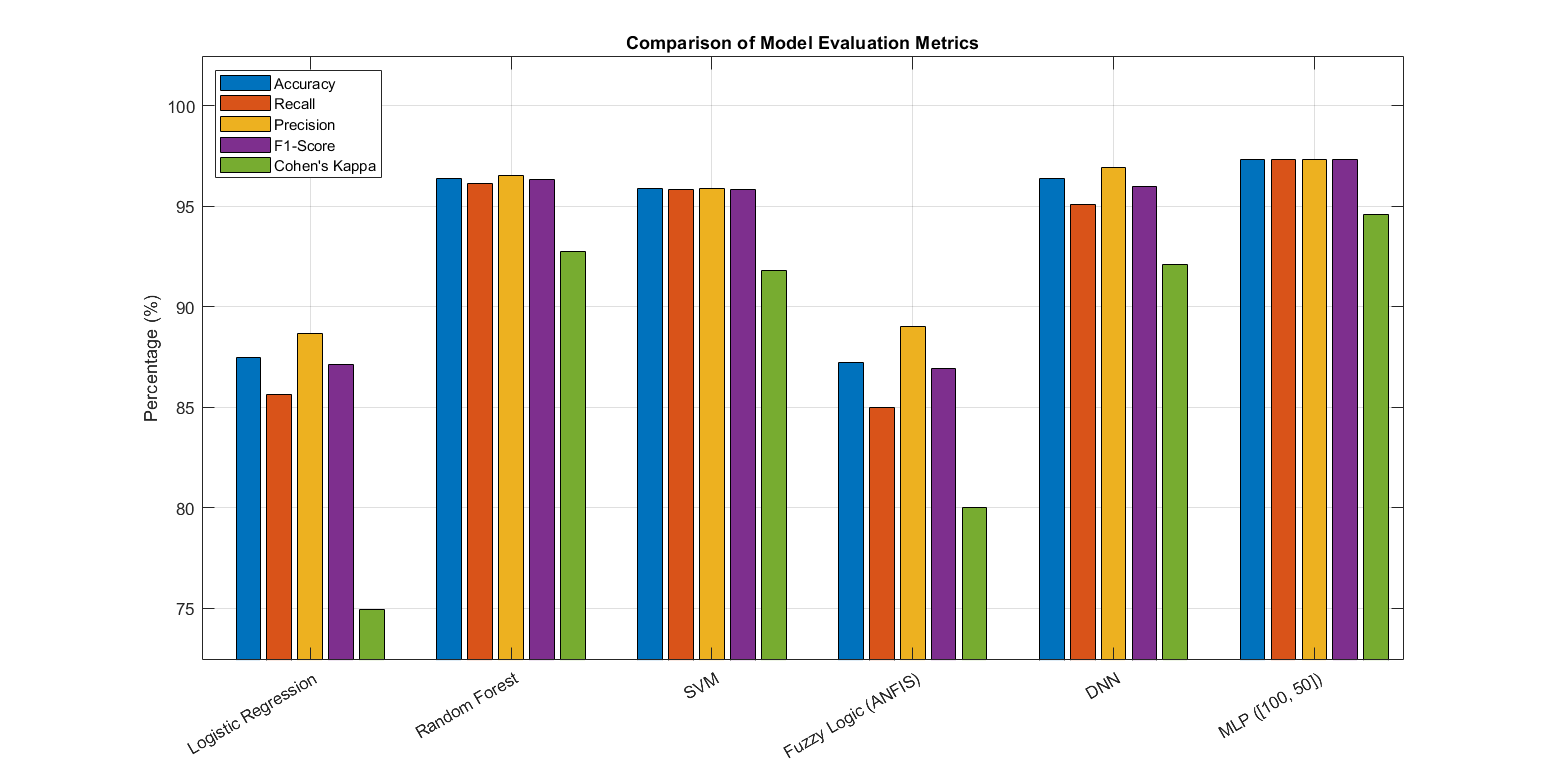
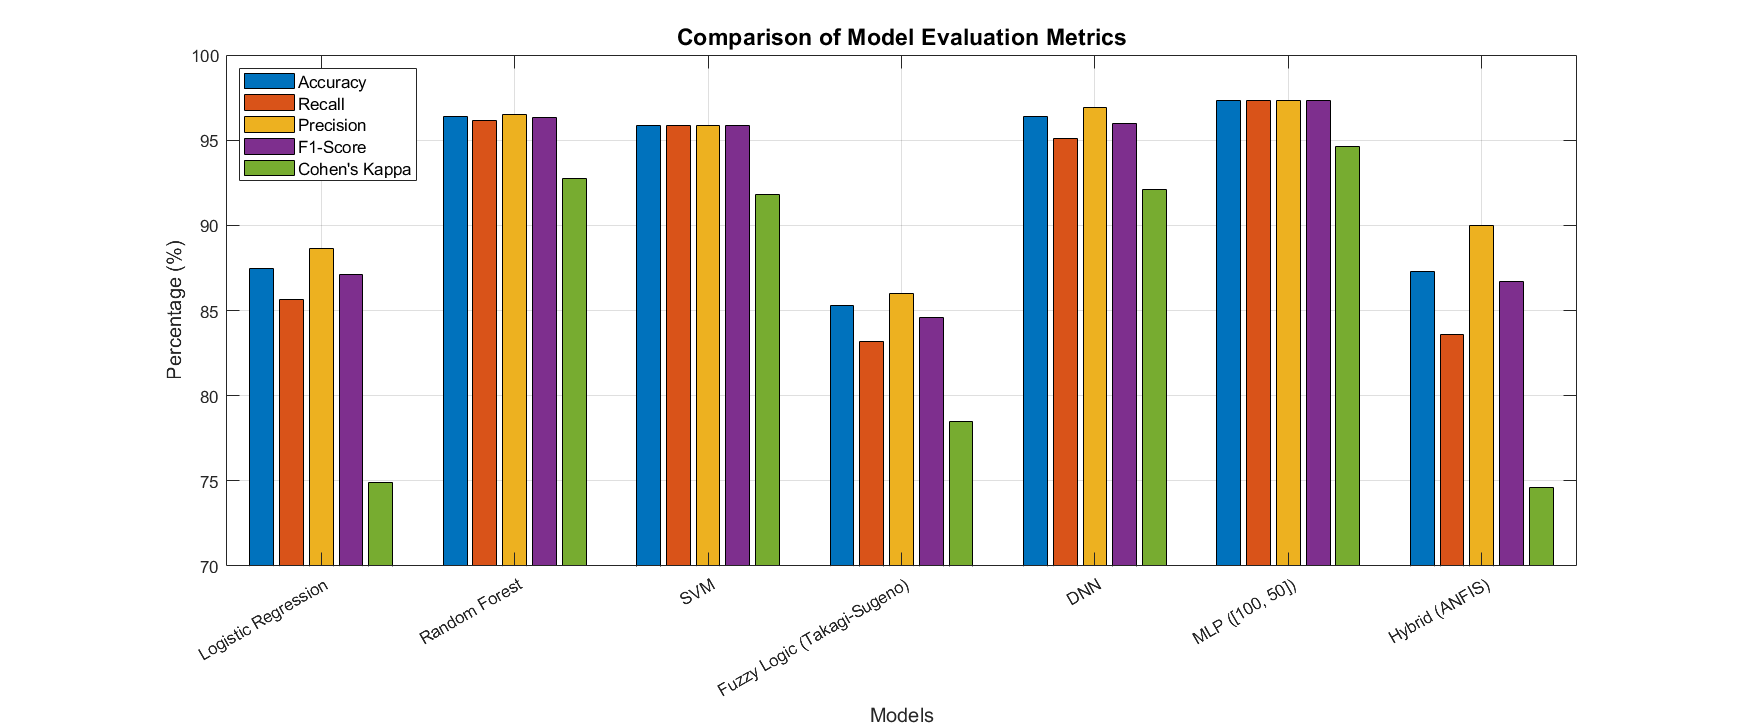
Code Results

diff --git a/Hybrid.m b/Hybrid.m
@@ -1,5 +1,5 @@
-clc
-clear all
+clc;
+clear all;
 
 %% Load data and create train-test sets
 Train = readtable('dataTrain.csv');
@@ -15,7 +15,7 @@ Y_test = table2array(Test(:, end));      % 'STATUS' column as label
 convert_to_binary = @(Y_pred) double(Y_pred >= 0.5);  % Ensure output is numeric
 
 %% Function to calculate metrics
-function [accuracy, recall, precision, f1] = calc_metrics(Y_true, Y_pred)
+function [accuracy, recall, precision, f1, kappa] = calc_metrics(Y_true, Y_pred)
     Y_true = double(Y_true);
     Y_pred = double(Y_pred);
     confusion = confusionmat(Y_true, Y_pred);
@@ -23,39 +23,68 @@ function [accuracy, recall, precision, f1] = calc_metrics(Y_true, Y_pred)
     TN = confusion(1,1);
     FP = confusion(1,2);
     FN = confusion(2,1);
-    
+
     accuracy = (TP + TN) / (TP + TN + FP + FN);
     recall = TP / (TP + FN);
     precision = TP / (TP + FP);
     f1 = 2 * (precision * recall) / (precision + recall);
+
+    % Calculate Kappa Score
+    total = sum(confusion(:));
+    po = accuracy;
+    pe = ((sum(confusion(1,:)) * sum(confusion(:,1))) + (sum(confusion(2,:)) * sum(confusion(:,2)))) / total^2;
+    kappa = (po - pe) / (1 - pe);
 end
 
-%% Grid Search for Best Number of Clusters
+%% Cross-validation setup
+cv = cvpartition(size(X_train, 1), 'KFold', 5); % 5-Fold Cross-validation
+
 best_num_clusters = 0;
 best_accuracy = 0;
 best_model = [];
 best_metrics = [];
 
 for num_clusters = 2:10  % Search from 2 to 10 clusters
-    opt = genfisOptions('FCMClustering', 'FISType', 'sugeno');
-    opt.NumClusters = num_clusters;
-    ts_model = genfis(X_train, Y_train, opt);
-    
-    % Evaluate on the test set
-    Y_pred = evalfis(ts_model, X_test);
-    Y_pred_binary = convert_to_binary(Y_pred);
-    
-    % Calculate metrics
-    [accuracy, recall, precision, f1] = calc_metrics(Y_test, Y_pred_binary);
-    
-    fprintf('Num Clusters: %d, Accuracy: %4.3f, Recall: %4.3f, Precision: %4.3f, F1-Score: %4.3f\n', num_clusters, accuracy, recall, precision, f1);
-    
+    fold_accuracies = [];
+    fold_metrics = [];
+
+    for fold = 1:cv.NumTestSets
+        % Get train-test split for the current fold
+        train_idx = cv.training(fold);
+        val_idx = cv.test(fold);
+
+        X_cv_train = X_train(train_idx, :);
+        Y_cv_train = Y_train(train_idx);
+        X_cv_val = X_train(val_idx, :);
+        Y_cv_val = Y_train(val_idx);
+
+        % Generate FIS model
+        opt = genfisOptions('FCMClustering', 'FISType', 'sugeno');
+        opt.NumClusters = num_clusters;
+        ts_model = genfis(X_cv_train, Y_cv_train, opt);
+
+        % Evaluate on the validation set
+        Y_pred = evalfis(ts_model, X_cv_val);
+        Y_pred_binary = convert_to_binary(Y_pred);
+
+        % Calculate metrics
+        [accuracy, recall, precision, f1, kappa] = calc_metrics(Y_cv_val, Y_pred_binary);
+        fold_accuracies = [fold_accuracies; accuracy];
+        fold_metrics = [fold_metrics; accuracy, recall, precision, f1, kappa];
+    end
+
+    % Average metrics across folds
+    avg_accuracy = mean(fold_accuracies);
+    avg_metrics = mean(fold_metrics, 1);
+
+    fprintf('Num Clusters: %d, Accuracy: %4.3f, Recall: %4.3f, Precision: %4.3f, F1-Score: %4.3f, Kappa: %4.3f\n', num_clusters, avg_metrics(1), avg_metrics(2), avg_metrics(3), avg_metrics(4), avg_metrics(5));
+
     % Check for best accuracy
-    if accuracy > best_accuracy
-        best_accuracy = accuracy;
+    if avg_accuracy > best_accuracy
+        best_accuracy = avg_accuracy;
         best_num_clusters = num_clusters;
         best_model = ts_model;
-        best_metrics = [accuracy, recall, precision, f1];
+        best_metrics = avg_metrics;
     end
 end
 
@@ -74,15 +103,16 @@ anfis_model = tunefis(best_model, [in; out], X_train, Y_train, tunefisOptions("M
 
 %% Evaluate Tuned Model
 Y_pred_final = evalfis(anfis_model, X_test);
+Y_pred_final_continuous = Y_pred_final;  % Keep continuous predictions for ROC
 Y_pred_final = convert_to_binary(Y_pred_final);
-[final_accuracy, final_recall, final_precision, final_f1] = calc_metrics(Y_test, Y_pred_final);
+[final_accuracy, final_recall, final_precision, final_f1, final_kappa] = calc_metrics(Y_test, Y_pred_final);
 
 fprintf('Final Accuracy after ANFIS Tuning: %4.3f\n', final_accuracy);
 
 %% Plot Performance Comparison
-metrics_names = {'Accuracy', 'Recall', 'Precision', 'F1-Score'};
+metrics_names = {'Accuracy', 'Recall', 'Precision', 'F1-Score', 'Kappa'};
 initial_metrics = best_metrics;
-tuned_metrics = [final_accuracy, final_recall, final_precision, final_f1];
+tuned_metrics = [final_accuracy, final_recall, final_precision, final_f1, final_kappa];
 
 figure;
 bar_handle = bar([initial_metrics; tuned_metrics]', 'grouped', 'BarWidth', 0.4);  
@@ -101,3 +131,15 @@ xtips2 = bar_handle(2).XEndPoints;
 ytips2 = bar_handle(2).YEndPoints;
 labels2 = string(round(bar_handle(2).YData, 3));
 text(xtips2, ytips2 + 0.01, labels2, 'HorizontalAlignment', 'center', 'VerticalAlignment', 'bottom');
+
+%% ROC Curve Plot
+[X_ROC, Y_ROC, T_ROC, AUC] = perfcurve(Y_test, Y_pred_final_continuous, 1);
+figure;
+plot(X_ROC, Y_ROC, 'b-', 'LineWidth', 2);
+hold on;
+plot([0, 1], [0, 1], 'r--'); % Diagonal line for random performance
+xlabel('False Positive Rate');
+ylabel('True Positive Rate');
+title(sprintf('ROC Curve (AUC = %4.3f)', AUC));
+grid on;
+hold off;

diff --git a/ResultsPlot.m b/ResultsPlot.m
@@ -1,27 +1,40 @@
 % MATLAB Code: Bar Plot for Model Performance Comparison
 
 % Define models
-models = {'Logistic Regression', 'Random Forest', 'SVM', 'Fuzzy Logic (ANFIS)', 'DNN', 'MLP ([100, 50])'};
+models = {'Logistic Regression', 'Random Forest', 'SVM', 'Fuzzy Logic (Takagi-Sugeno)', 'DNN', 'MLP ([100, 50])', 'Hybrid (ANFIS)'};
 
 % Define performance metrics for each model
-accuracy = [87.47, 96.37, 95.89, 87.2, 96.4, 97.3];
-recall = [85.65, 96.13, 95.85, 85.0, 95.1, 97.3];
-precision = [88.65, 96.51, 95.86, 89.0, 96.9, 97.3];
-f1_score = [87.12, 96.32, 95.85, 86.9, 96.0, 97.3];
-kappa = [74.92, 92.73, 91.79, 80.0, 92.1, 94.6];
+accuracy = [87.47, 96.37, 95.89, 85.3, 96.4, 97.3, 87.3];
+recall = [85.65, 96.13, 95.85, 83.2, 95.1, 97.3, 83.6];
+precision = [88.65, 96.51, 95.86, 86.0, 96.9, 97.3, 90.0];
+f1_score = [87.12, 96.32, 95.85, 84.6, 96.0, 97.3, 86.7];
+kappa = [74.92, 92.73, 91.79, 78.5, 92.1, 94.6, 74.6];
+
 
 % Combine data for grouped bar plot
 performance_data = [accuracy; recall; precision; f1_score; kappa]';
 
 % Create grouped bar plot
 figure;
-bar(performance_data, 'grouped');
-set(gca, 'XTickLabel', models, 'XTickLabelRotation', 45);
-ylabel('Percentage (%)');
-title('Comparison of Model Evaluation Metrics');
-legend({'Accuracy', 'Recall', 'Precision', 'F1-Score', 'Cohen''s Kappa'}, 'Location', 'northwest');
-grid on;
+b = bar(performance_data, 'grouped');
 
-% Adjust plot for better readability
+% Customize bar colors
+colors = lines(size(performance_data, 2));
+for i = 1:size(performance_data, 2)
+    b(i).FaceColor = colors(i, :);
+end
+
+% Set axis labels and title
+set(gca, 'XTickLabel', models, 'XTickLabelRotation', 30, 'FontSize', 10);
+ylabel('Percentage (%)', 'FontSize', 12);
+xlabel('Models', 'FontSize', 12);
+title('Comparison of Model Evaluation Metrics', 'FontSize', 14);
+
+% Add legend
+legend({'Accuracy', 'Recall', 'Precision', 'F1-Score', 'Cohen''s Kappa'}, ...
+    'Location', 'northwest', 'FontSize', 10);
+
+% Add grid and adjust y-axis
+grid on;
 ylim([70 100]);
-xtickangle(30);
+
